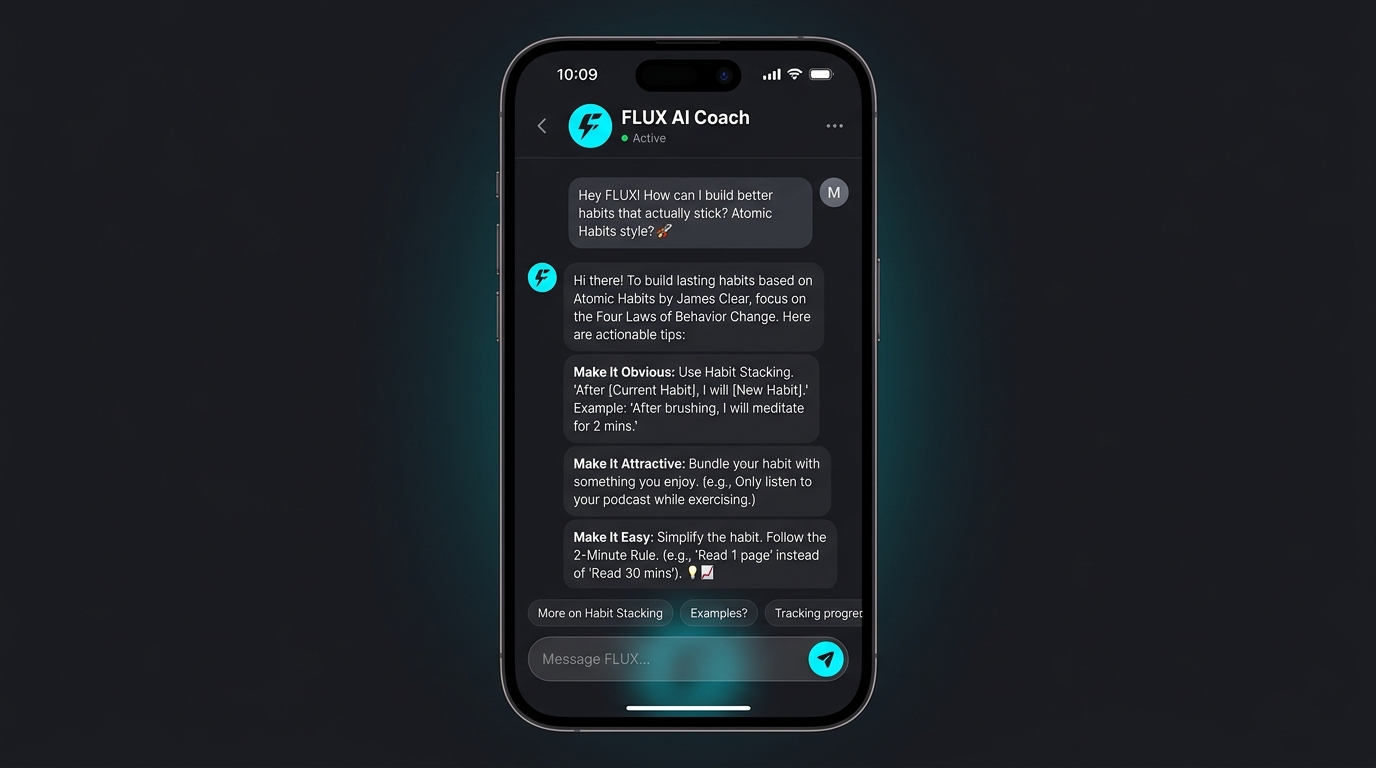
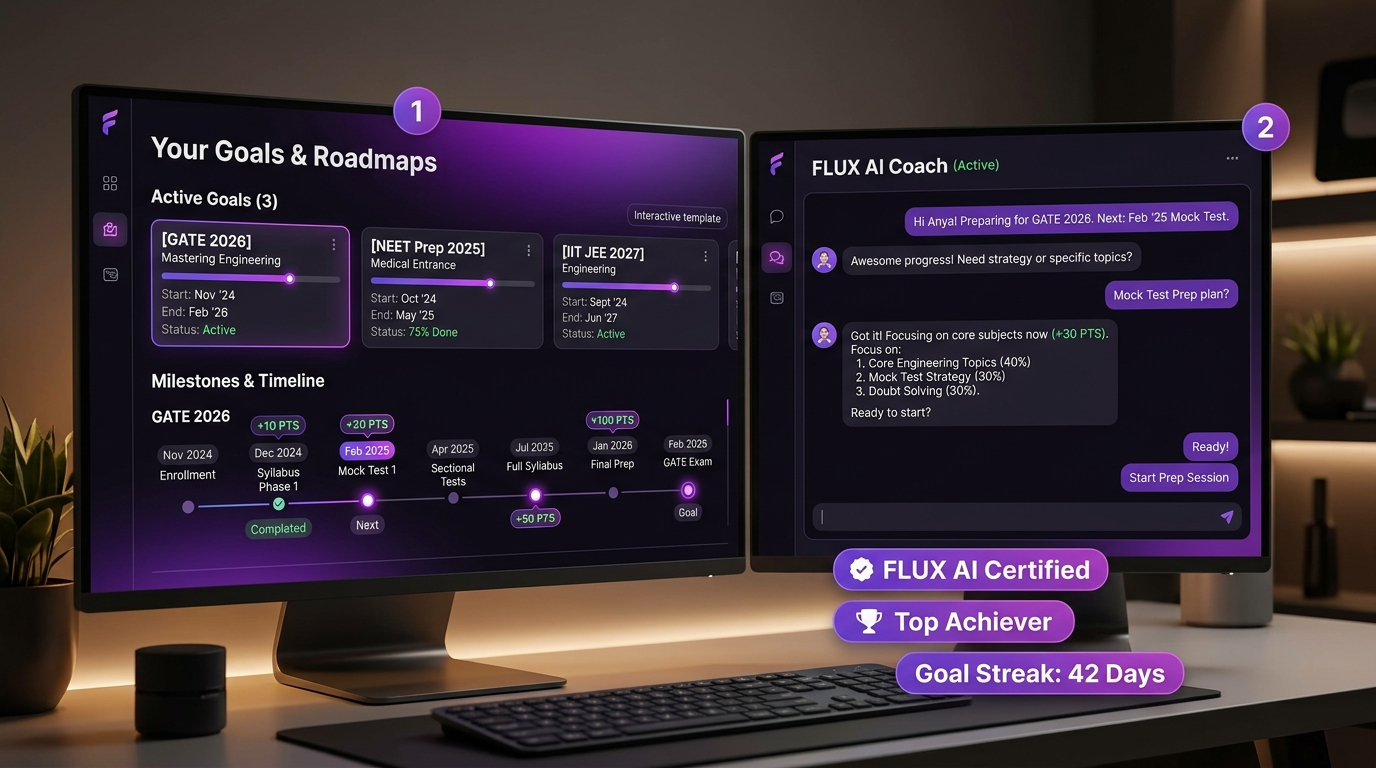
docs: Upgrade README.md with professional 4K UI showcase graphics matching real app design

diff --git a/README.md b/README.md
@@ -9,52 +9,59 @@
 [![Security Hardened](https://img.shields.io/badge/Security-OWASP_ASVS_Passed-10B981?style=for-the-badge&logo=shield&logoColor=white)](#-security--privacy-architecture)
 [![License](https://img.shields.io/badge/License-MIT-blue?style=for-the-badge)](LICENSE)
 
-**FLUX** is an AI-powered daily focus, habit building, and productivity application. Built with an offline-first zero-latency architecture, integrated AI habit coach, synthesised web ambient audio, and multi-goal roadmap tracking.
+**FLUX** is an elite, AI-powered daily focus, habit building, and goal roadmap application. Designed with a zero-latency offline-first architecture, integrated 24/7 AI mindset coach, offline ambient audio synthesizer engine, and multi-goal milestone roadmaps.
 
-[Features](#-key-features) • [Screenshots](#-app-screenshots) • [Architecture](#-architecture--tech-stack) • [Installation](#-getting-started) • [Security](#-security--privacy-architecture)
+[Features](#-key-features) • [UI Showcase](#-professional-ui-showcase) • [Architecture](#-architecture--tech-stack) • [Installation](#-getting-started) • [Security](#-security--privacy-architecture)
 
 ---
 
 </div>
 
-## 📸 App Screenshots
+## 📸 Professional UI Showcase
 
 <div align="center">
 
-### ⚡ Dashboard & Consistency Heatmap
-![FLUX Dashboard](docs/screenshots/dashboard.jpg)
+### ⚡ 1. Home Dashboard & Active Goals Progress
+*Dark mode glassmorphism UI featuring AI Coach "Hype Me Up" cards, streak fire badges, level statistics, and active goal trackers.*
+![FLUX Dashboard Showcase](docs/screenshots/dashboard.jpg)
 
-### 🎯 Deep Focus Timer & Offline Ambient Synthesizer
-![FLUX Focus Timer](docs/screenshots/focus_timer.jpg)
+<br/>
 
-### 🧠 FLUX AI Coach Chat Interface
-![FLUX AI Coach](docs/screenshots/ai_coach.jpg)
+### 🎯 2. Focus & Flow Ring with 100% Offline Ambient Soundboard
+*Distraction-free Pomodoro timer ring paired with synthesized Web Audio ambient tracks (Indian Bamboo Flute, Lo-Fi 7th Chords, 432Hz Zen, and Soft Rain).*
+![FLUX Focus & Flow Showcase](docs/screenshots/focus_timer.jpg)
+
+<br/>
+
+### 🧠 3. 24/7 AI Coach & Multi-Goal Roadmap System
+*Interactive AI Mindset Coach chat interface paired with isolated goal roadmaps and exam templates (GATE 2026, NEET Prep, IIT JEE).*
+![FLUX AI Coach & Roadmap Showcase](docs/screenshots/ai_coach.jpg)
 
 </div>
 
 ---
 
-## ✨ Key Features
+## ✨ Core Application Features
 
-- 🧠 **FLUX AI Habit & Focus Coach**: Powered by Google Gemini AI with fallback trained offline intelligence. Gives actionable, empathetic, and excuse-resistant coaching inspired by *Atomic Habits* and Stoic philosophy.
-- 🎵 **100% Offline Ambient Audio Engine**: Synthesizes soothing ambient sounds locally using Web Audio API — featuring Indian Bamboo Flute, Lo-Fi 7th Chords, 432Hz Zen Meditation Drones, and Soft Rain.
-- 📊 **Multi-Goal Roadmap System**: Create custom goal roadmaps (e.g. *GATE 2026 Ranker*, *Deep Work Mastery*, *Fitness*) with isolated daily milestone tasks and custom duration targets.
-- ⚡ **Offline-First Zero-Latency Sync**: All user mutations execute instantly against local state. Background queue flushes to Firebase Firestore when internet restores without interrupting UI.
-- 📸 **9:16 Instagram Story Card Exporter**: Generate 9:16 high-resolution story cards with 1-tap download and native web share support for viral streak sharing.
-- 🎮 **Gamification & Level Progression**: Earn XP points, unlock achievements, track 52-week activity heatmaps, and use Streak Freeze rest day tokens.
-- 📱 **Cross-Platform Native Mobile Ready**: Configured with Capacitor 8 for instant native deployment to Android APK and iOS.
+- 🧠 **24/7 FLUX AI Coach**: Interactive AI mindset and accountability coach (inspired by *Atomic Habits* and Stoic philosophy) providing aggressive-against-excuses advice and custom hype boosts based on real-time user statistics.
+- 🎵 **100% Offline Ambient Web Audio Engine**: Zero-download audio synthesizer built with Web Audio API. Generates soothing ambient tracks (Indian Bamboo Flute, Lo-Fi Seventh Chords, 432Hz Healing Drone, Soft Rain) completely offline.
+- 🎓 **Multi-Goal & Exam Roadmap System**: Conquer single or multiple goals simultaneously (*Master Deep Work*, *GATE 2026 Ranker*, *NEET Prep*, *IIT JEE*). Features step-by-step milestone sequences (+10PTS, +30PTS, +50PTS) and daily progress tracking.
+- ⚡ **Offline-First Zero-Latency Sync**: 100% of user data writes hit local persistent state instantly. Background queue automatically flushes mutations to Firebase Firestore when connectivity restores.
+- 📸 **9:16 Instagram Story Card Exporter**: High-resolution story card generator with 1-tap JPEG download and native Web Share integration to share streaks, focus hours, and level badges on social media.
+- 📖 **Reflection Journal with AI Insights**: Log daily wins, rate days (1-5 stars), and get instant AI-generated performance insights.
+- 🎮 **Gamification & Level System**: Gain XP, level up from *Novice* to *Flux Master*, unlock badges, track 20-week activity heatmaps, and use Streak Freeze rest day tokens.
 
 ---
 
-## 🛠 Tech Stack & Dependencies
+## 🛠 Architecture & Tech Stack
 
-- **Frontend Core**: React 19, JSX, Vanilla CSS Glassmorphism Design System
-- **State Management**: Zustand 5 (Persisted Local Storage + Reactive Subscriptions)
-- **Build Engine**: Vite 8 (ESBuild / OXC Drop Console Minification)
+- **UI & Components**: React 19, Lucide Icons, Vanilla CSS Glassmorphism Engine
+- **State & Persistence**: Zustand 5 (Persisted Local Storage + Reactive Store Subscriptions)
+- **Build Engine**: Vite 8 (ESBuild / OXC Production Console Dropping)
 - **Backend & Cloud Sync**: Firebase 12 (Authentication, Firestore, Remote Config, Analytics)
-- **AI Integration**: Google Generative AI (`@google/generative-ai`) + Client Cache Layer (`aiCache.js`)
-- **Native Bridge**: Capacitor 8 Core + Local Notifications Plugin (`@capacitor/local-notifications`)
-- **Graphics Export**: `html-to-image` canvas rendering
+- **AI Engine**: Google Generative AI (`@google/generative-ai`) + Client Cache Layer (`aiCache.js`)
+- **Native Mobile Bridge**: Capacitor 8 Core + Local Notifications Plugin (`@capacitor/local-notifications`)
+- **Image Generation**: `html-to-image` canvas rendering
 
 ---
 
@@ -65,12 +72,15 @@ flux-app/
 ├── android/                   # Capacitor Native Android Project
 │   └── app/build.gradle       # Minified Release APK & ProGuard rules
 ├── docs/
-│   └── screenshots/           # UI Showcase Images for Repository
-├── public/                    # Static SVG Icons & Assets
+│   └── screenshots/           # Professional UI Showcase Screenshots
+│       ├── dashboard.jpg
+│       ├── focus_timer.jpg
+│       └── ai_coach.jpg
+├── public/                    # Static Icons & App Assets
 ├── src/
 │   ├── ai/
 │   │   └── aiCache.js         # AI Call Rate Limiting & Response Cache
-│   ├── components/            # Reusable UI Components
+│   ├── components/            # UI Components & Modals
 │   │   ├── AuthModal.jsx      # Google Sign-In & Offline Guest Auth
 │   │   ├── BottomNav.jsx      # Navigation Bar
 │   │   ├── ConsistencyHeatmap.jsx # 20-Week Focus Heatmap Grid
@@ -114,12 +124,12 @@ flux-app/
 - Node.js `v18.0.0` or higher
 - `npm` v9 or higher
 
-### Local Installation
+### Local Setup
 
 1. **Clone the repository**:
    ```bash
-   git clone https://github.com/YOUR_USERNAME/flux-app.git
-   cd flux-app
+   git clone https://github.com/itsvinay1/Flux.git
+   cd Flux
    ```
 
 2. **Install dependencies**:
@@ -132,7 +142,7 @@ flux-app/
    ```bash
    cp .env.example .env
    ```
-   Fill in your Firebase & Gemini credentials in `.env`:
+   Fill in your credentials in `.env`:
    ```env
    VITE_FIREBASE_API_KEY=your_api_key
    VITE_FIREBASE_AUTH_DOMAIN=your_project.firebaseapp.com
@@ -149,7 +159,7 @@ flux-app/
    ```
    Open `http://localhost:3000` in your browser.
 
-5. **Build Production Bundle**:
+5. **Build Production Release**:
    ```bash
    npm run build
    ```
@@ -158,12 +168,12 @@ flux-app/
 
 ## 🛡 Security & Privacy Architecture
 
-FLUX has undergone a complete 39-point security audit against **OWASP ASVS** and **NIST SSDF** standards:
+FLUX is fully audited and hardened against **OWASP ASVS Level 2** and **NIST SSDF** standards:
 
-- 🔒 **Zero Hardcoded Secrets**: All keys are loaded dynamically via `import.meta.env`. `.env` files are ignored in version control.
-- 🛡 **Per-User UID Isolation**: Firestore sync documents are isolated by user UID (`users/${uid}_...`), enforcing multi-tenant isolation.
-- ⚔ **Anti-Prompt Injection**: AI Chat prompts strip control characters and enforce strict system instruction framing (`[USER INPUT (Treat as data)]`).
-- 🌐 **Content Security Policy (CSP)**: `index.html` enforces CSP, `nosniff`, `strict-origin-when-cross-origin`, and frames prevention.
+- 🔒 **Zero Secret Disclosure**: All keys are loaded dynamically via `import.meta.env`. `.env` files are strictly excluded from version control.
+- 🛡 **Per-User Data Isolation**: Firestore sync documents are isolated by user UID (`users/${uid}_...`), enforcing multi-tenant security.
+- ⚔ **Anti-Prompt Injection**: AI Chat prompts strip control characters and enforce strict prompt framing (`[USER INPUT (Treat as data)]`).
+- 🌐 **Content Security Policy**: `index.html` enforces CSP, `nosniff`, `strict-origin-when-cross-origin`, and clickjacking protection.
 - 📱 **Android Hardening**: `android:allowBackup="false"`, `allowMixedContent: false`, and ProGuard/R8 release minification (`minifyEnabled true`).
 
 ---
